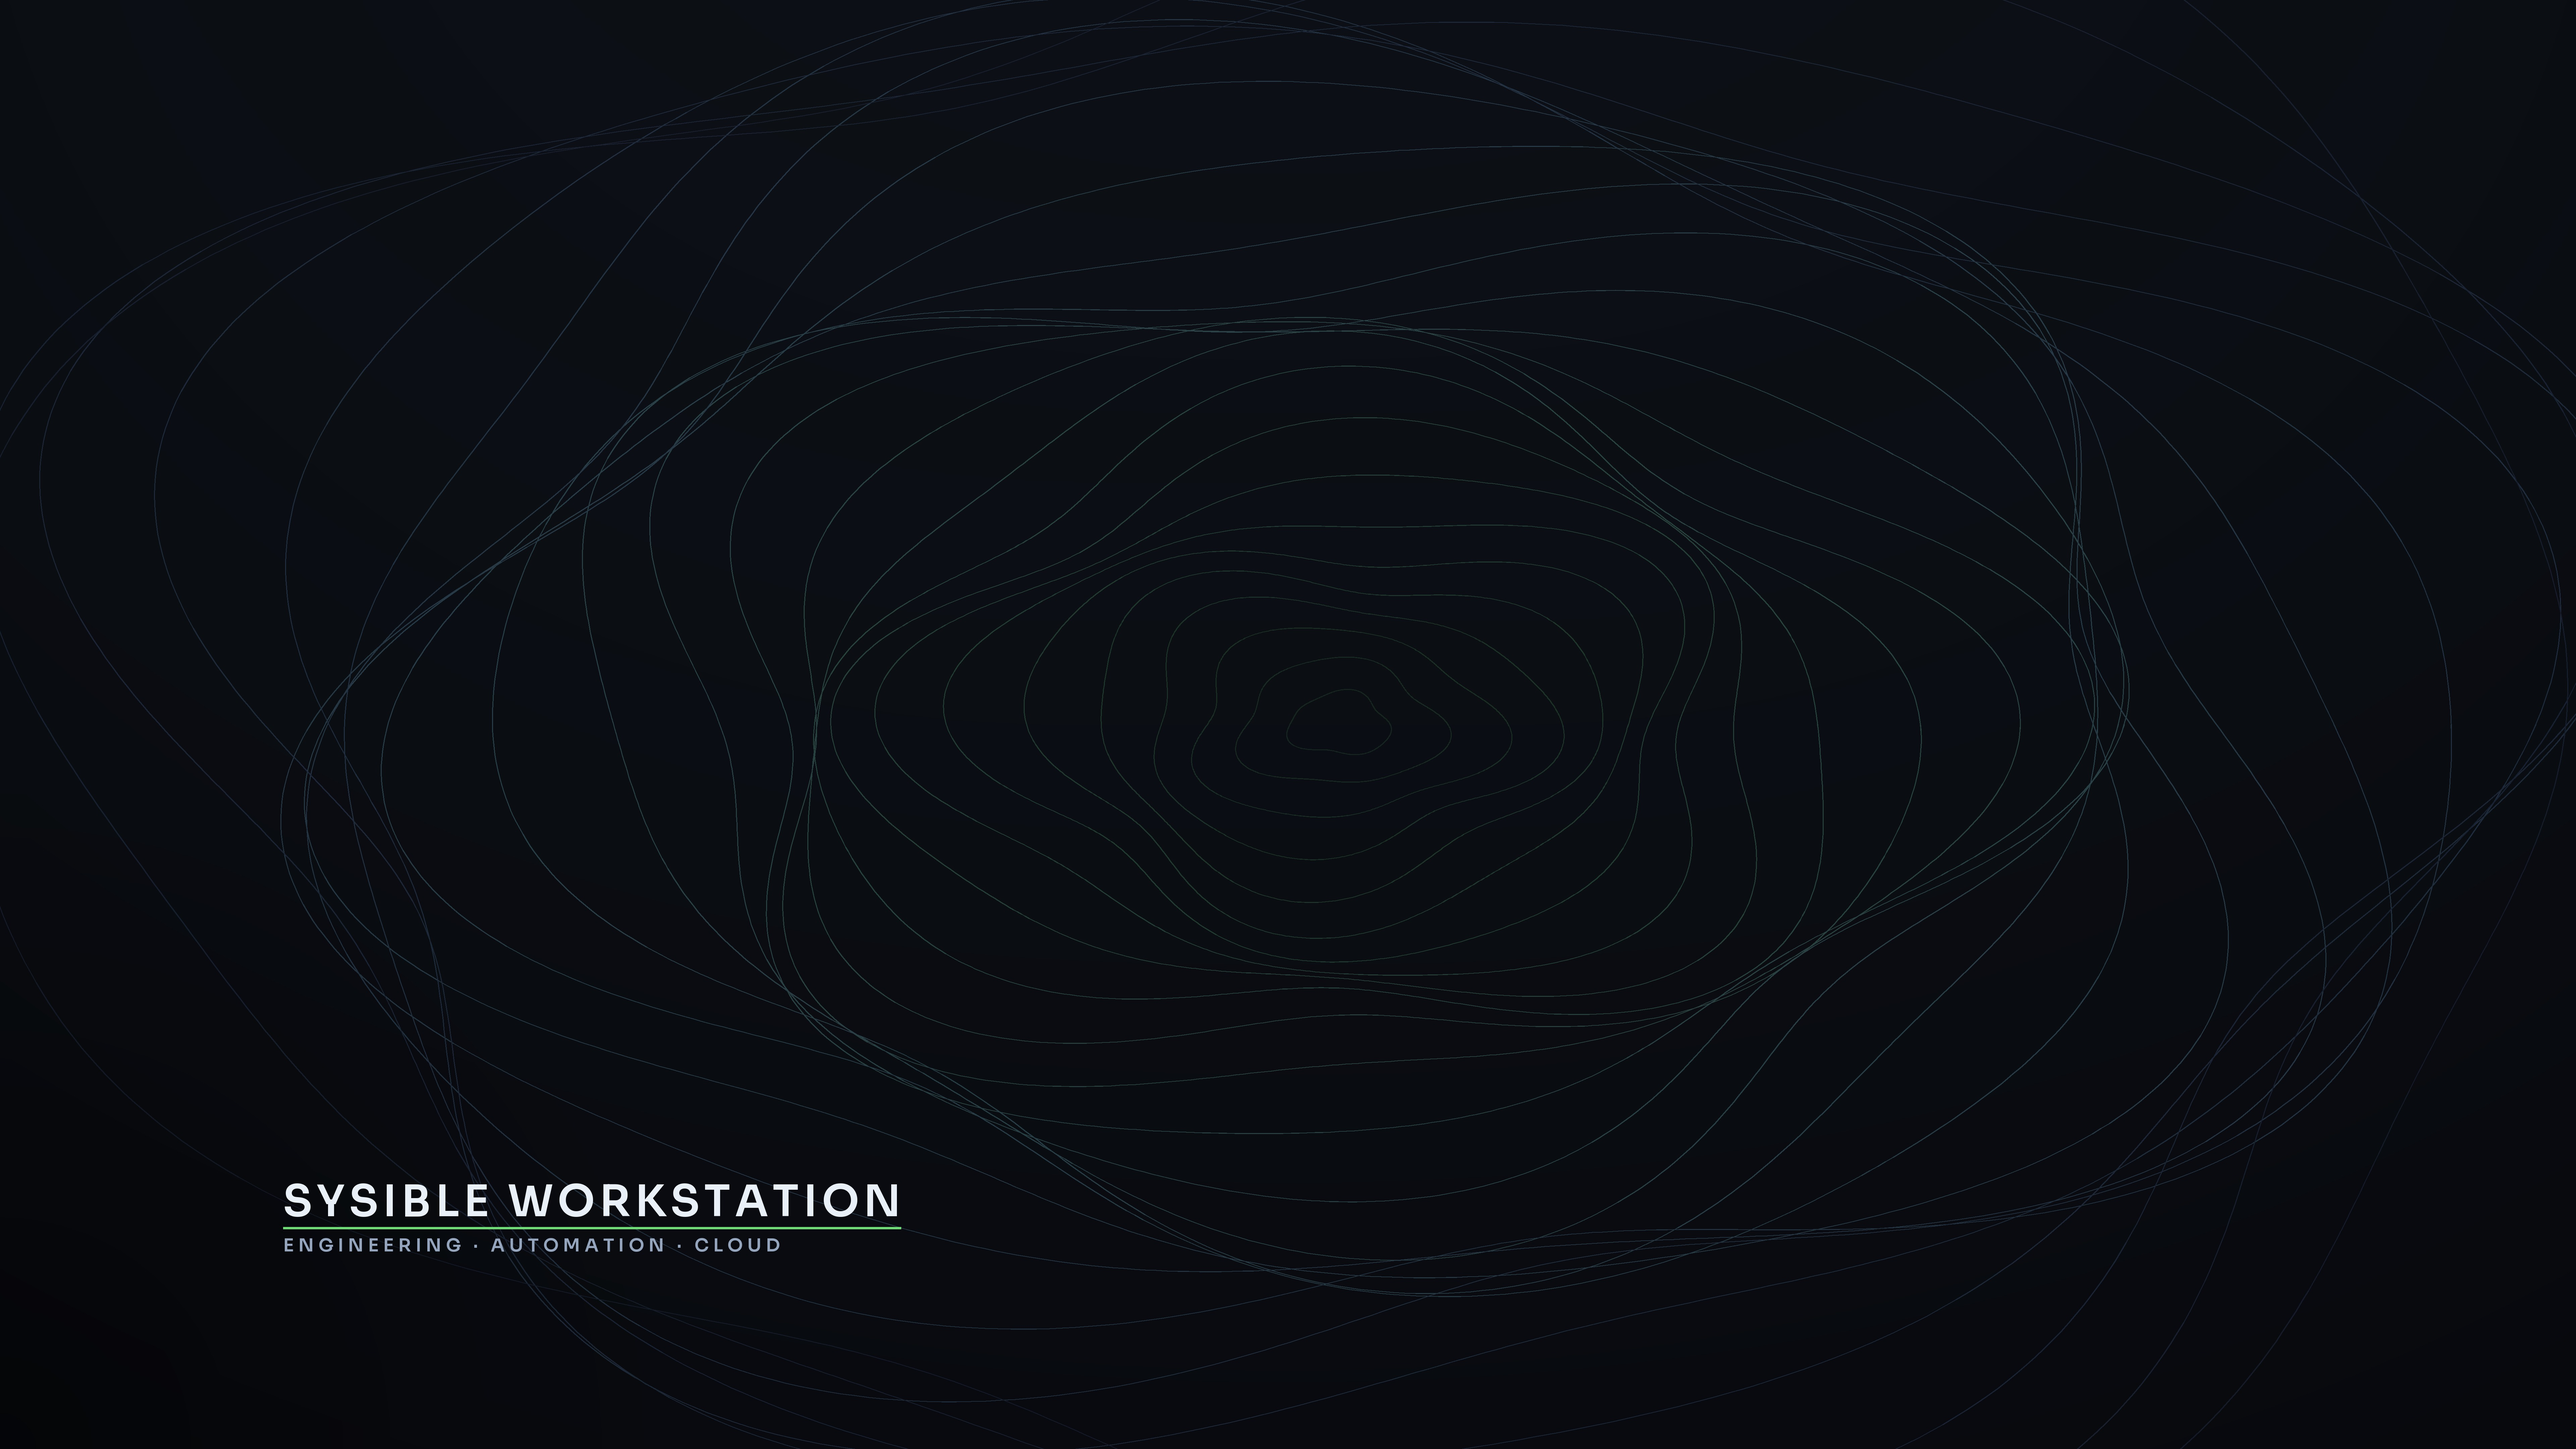
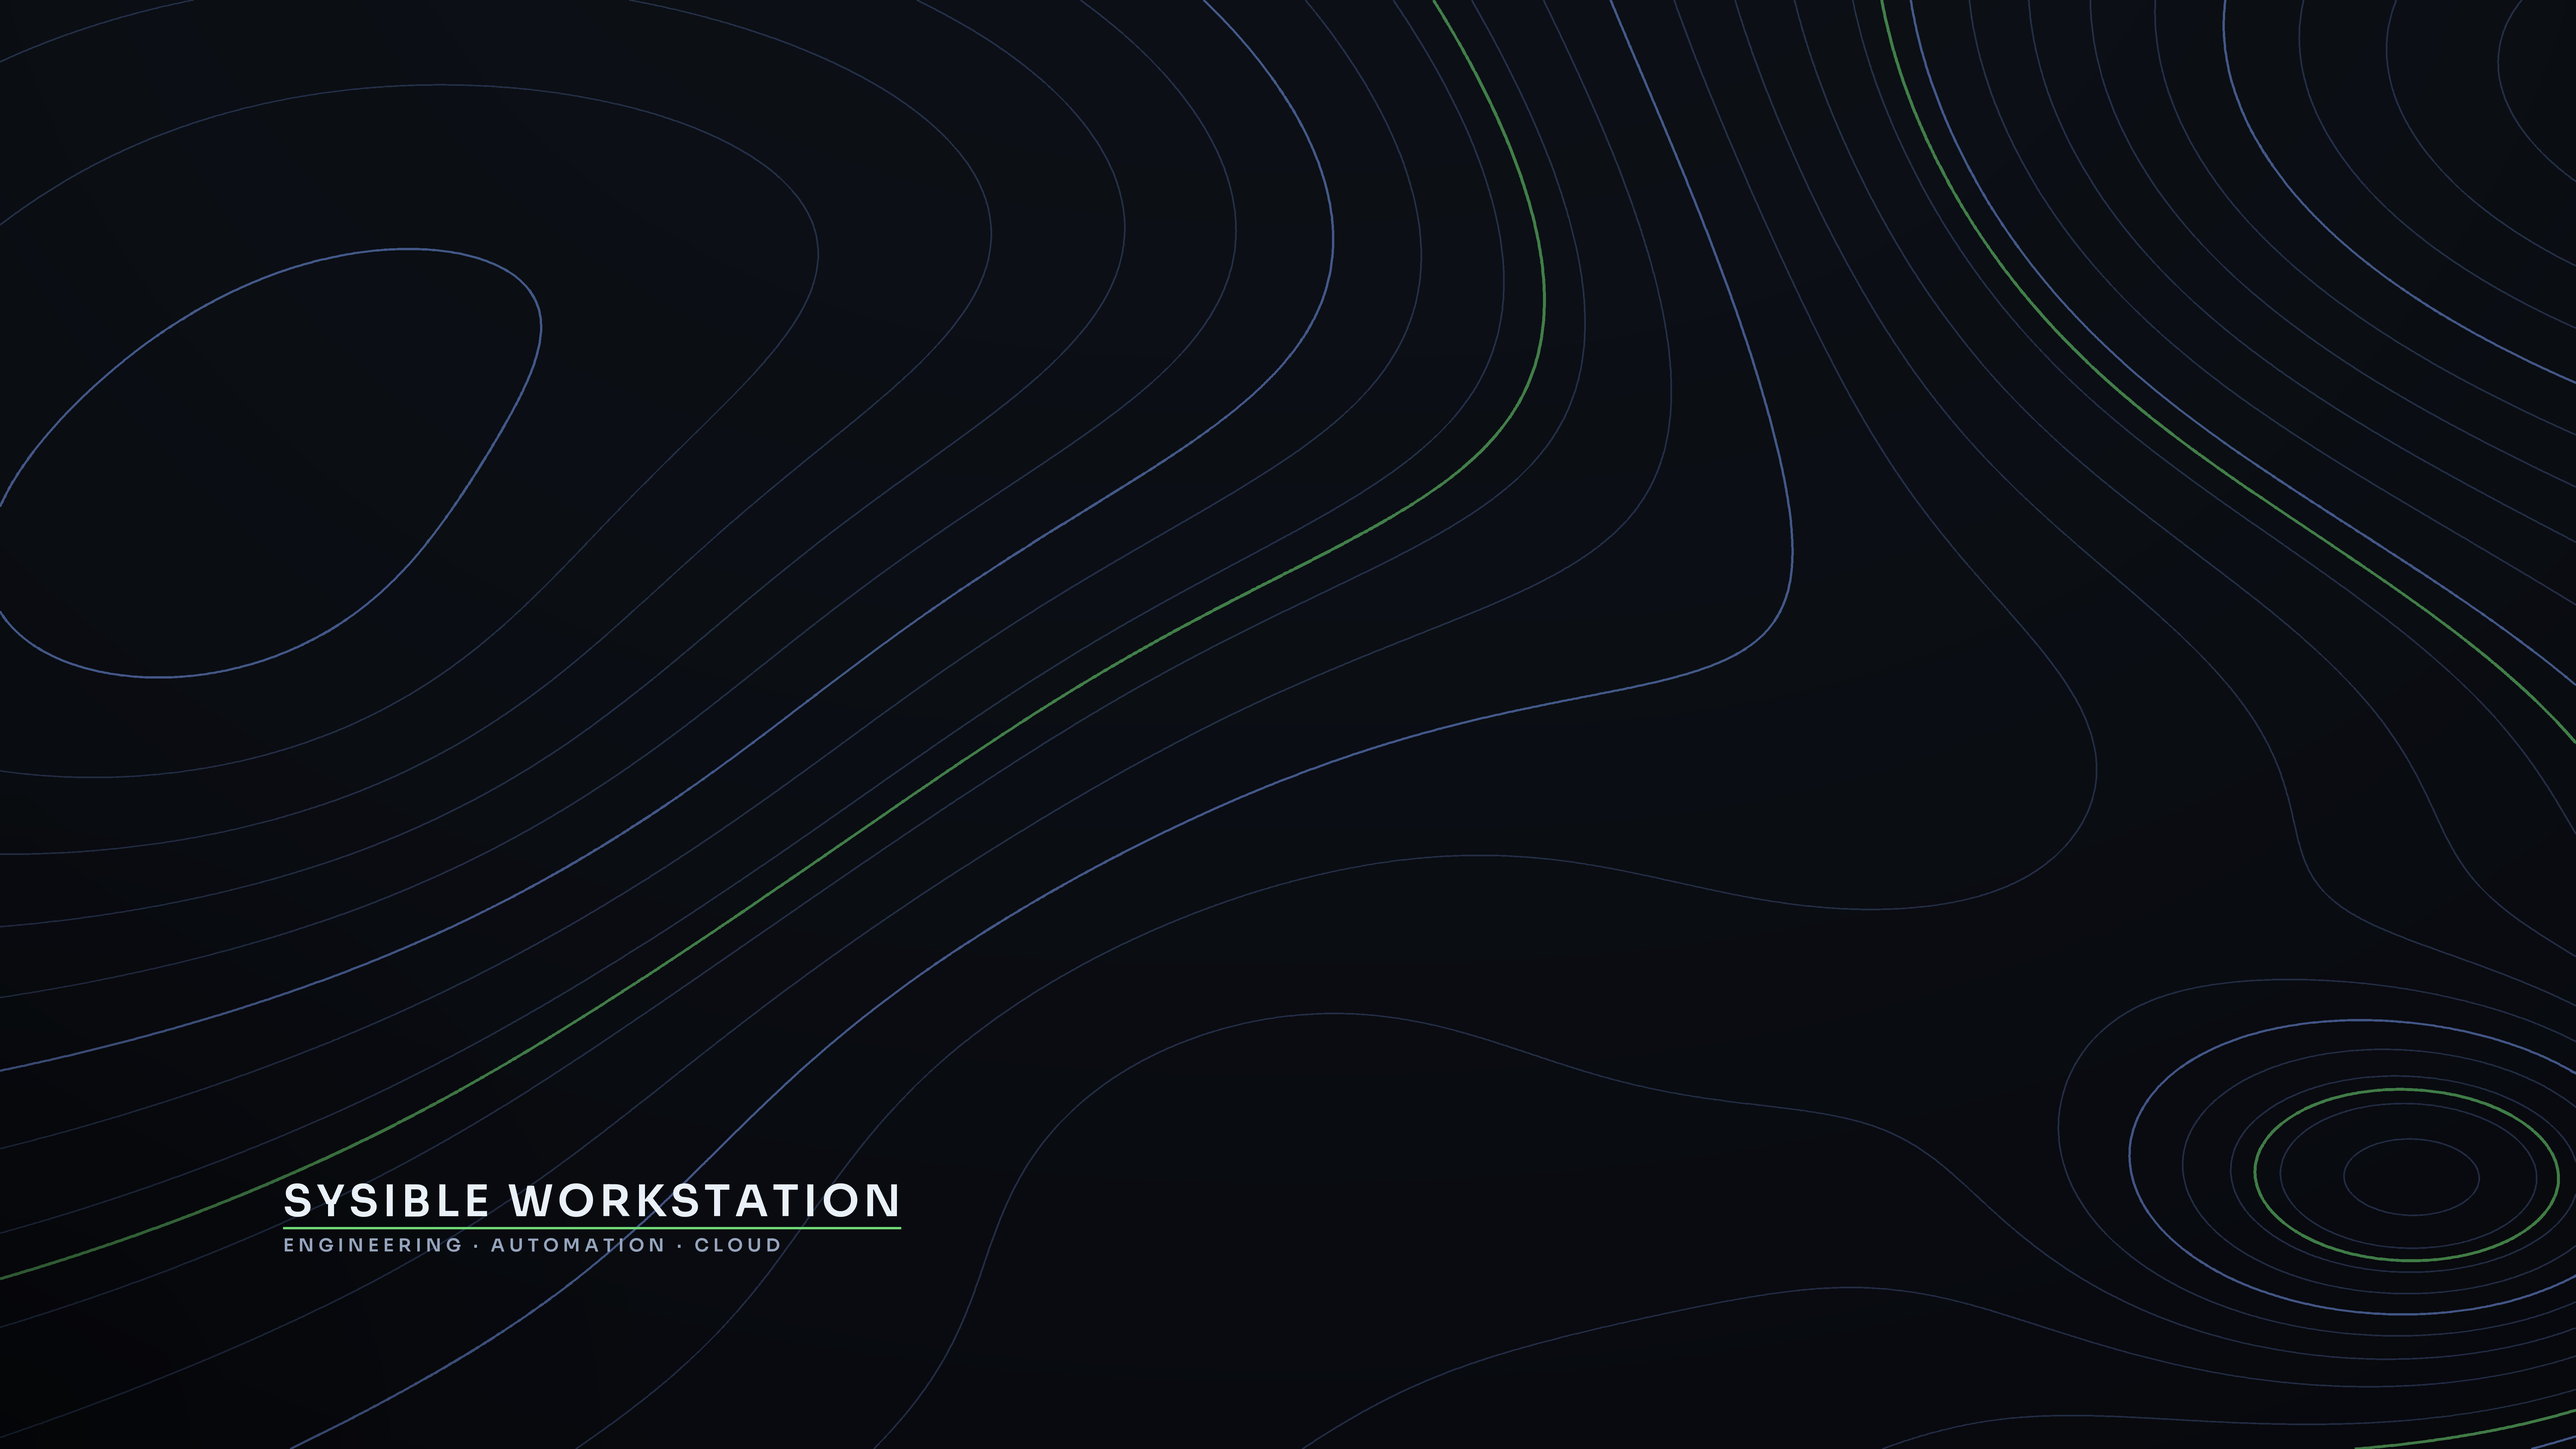
One installer, and the platform's contour background on the wallpapers
Installers: there were three launchers — Controller, SLEP, SLOP — for what is
really one script, so each could drift on its own, and one already had:
sysible-controller-install.desktop ran `install-sysible-controller`, a name that
resolves to a stale script describing a pre-container layout (/opt/sysible, a
systemd backend + web console) the Controller has not shipped in a long time.
Worse, verify check 14 fails the build for any launcher whose Exec is not on
PATH, so the three-launcher set was one hook away from breaking the ISO.

There is now a single "Install Sysible Software" launcher that opens the
install-sysible menu, from which controller, slep and connect can each be
installed on their own, or SLOP to put all three behind one sign-in. The two
older command names survive as thin aliases that exec install-sysible, so
muscle memory still lands on the right installer instead of the stale one.

New verify check 15 asserts exactly one installer launcher, that its Exec is
the bare menu with no product baked in, that the menu offers every product, and
that both legacy names are aliases rather than installers of their own.

Wallpapers: the topographic styles now carry the same contour field as the
website and the SLOP apps — same seed, same green index contours — so the
desktop and every app in the platform share one background instead of three
unrelated looks. Regenerated at full resolution.

Claude-Session: https://claude.ai/code/session_01Rykm1PRspyG3mLbsfLyocH

diff --git a/branding/wallpapers/render_wallpapers.py b/branding/wallpapers/render_wallpapers.py
@@ -28,7 +28,7 @@ from PIL import Image, ImageDraw, ImageFont, ImageFilter
 ROOT = os.path.dirname(os.path.dirname(os.path.dirname(os.path.abspath(__file__))))
 FONT = os.path.join(ROOT, "branding/fonts/Sora.ttf")
 OUT_DIR = os.path.join(ROOT, "packages/sysible-artwork/backgrounds")
-PREVIEW_DIR = "/tmp/claude-0/-home-user-Sysible-Controller/c65daca9-69d4-5d3e-9d67-370754a4a228/scratchpad/wp_preview"
+PREVIEW_DIR = os.getenv("SYSIBLE_WP_PREVIEW_DIR", "/tmp/sysible-wp-preview")
 
 FULL_W, FULL_H = 7680, 4320
 QUALITY = 92
@@ -202,54 +202,170 @@ def draw_banner(img_rgba, pal):
 # ============================================================================
 # STYLE RENDERERS  (each returns a final RGB PIL image, banner NOT yet applied)
 # ============================================================================
-def _topo_overlay(W, H, pal, rings, freq, jitter, seed, deform=0.11):
-    """Concentric deformed contour rings, green->blue by ring, sin fade for depth."""
-    overlay = Image.new("RGBA", (W, H), (0, 0, 0, 0))
-    d = ImageDraw.Draw(overlay, "RGBA")
-    r = rng(seed)
-    cx, cy = W * 0.52, H * 0.5
-    base = min(W, H) * (0.9 / rings)
-    lw = max(2, int(W / 2400))
-    ga = pal["art_green"]
-    ba = pal["art_blue"]
-    a_lo, a_hi = (0.10, 0.34) if pal["light"] else (0.09, 0.30)
-    phase = r.random() * math.tau
-    for k in range(rings):
-        rr = base * (k + 1)
-        pts = []
-        a = 0.0
-        while a <= math.pi * 2 + 0.02:
-            pp = (rr
-                  + math.sin(a * 3 + k * 0.7 + phase) * rr * deform
-                  + math.cos(a * freq - k * 0.5) * rr * deform * 0.45
-                  + math.sin(a * (freq * 2 + 1) + k) * rr * jitter)
-            pts.append((cx + pp * math.cos(a), cy + pp * 0.62 * math.sin(a)))
-            a += 0.012
-        fade = math.sin(math.pi * (k + 1) / (rings + 1))
-        col = mix(ga, ba, k / max(1, rings - 1))
-        al = int((a_lo + (a_hi - a_lo) * fade) * 255)
-        d.line(pts, fill=col + (al,), width=lw, joint="curve")
-    return overlay
+# ---- website contour field --------------------------------------------------
+# The site's hero (index.html, drawTopo) draws REAL topographic contours: a
+# deterministic height field sampled by marching squares, most lines faint blue,
+# every fifth one an "index contour" drawn stronger, and two levels picked out in
+# green. That selective emphasis is what gives it the look — the earlier
+# concentric-ring overlay tinted every ring the same way, so nothing stood out.
+#
+# The field is reproduced EXACTLY (same LCG seed, same 14 gaussian bumps, same
+# regional slope), so the wallpaper and the website are the same terrain. It is
+# analytic, so it can be sampled on a far finer grid here than the browser uses —
+# the site's 132-wide grid would show visible faceting at 8K.
+_WEB_SEED = 7
+_WEB_BUMPS = 14
+_WEB_LEVELS = 24
+
+
+def _web_bumps():
+    """The site's bumps, from its own linear congruential generator."""
+    rs = _WEB_SEED
+    def rnd():
+        nonlocal rs
+        rs = (1103515245 * rs + 12345) & 0x7FFFFFFF
+        return rs / 0x7FFFFFFF
+    return [(rnd() * 1.1 - 0.05, rnd() * 1.1 - 0.05, rnd() * 2 - 1, 0.08 + rnd() * 0.22)
+            for _ in range(_WEB_BUMPS)]
+
+
+def _web_field(gw, gh):
+    """The height field on a (gh, gw) grid: a gentle regional slope plus the bumps."""
+    gx = np.linspace(0.0, 1.0, gw, dtype=np.float32)[None, :]
+    gy = np.linspace(0.0, 1.0, gh, dtype=np.float32)[:, None]
+    f = gx * 0.6 + gy * 0.3
+    for bx, by, amp, sig in _web_bumps():
+        d2 = ((gx - bx) ** 2 + (gy - by) ** 2) / (2.0 * sig * sig)
+        f = f + amp * np.exp(-d2)
+    return f.astype(np.float32)
+
+
+def _iso_segments(F, lvl, sx, sy):
+    """Marching-squares segments for one contour level, vectorized.
+
+    Returns an (N, 4) array of x0,y0,x1,y1. Same edge order as the site (top,
+    right, bottom, left) so the same cells connect the same way; a cell with four
+    crossings emits two segments, exactly as the canvas version does."""
+    tl, tr = F[:-1, :-1], F[:-1, 1:]
+    bl, br = F[1:, :-1], F[1:, 1:]
+    gt, gr = tl > lvl, tr > lvl
+    gb, gl = br > lvl, bl > lvl
+    m = np.stack([gt != gr, gr != gb, gb != gl, gl != gt], axis=-1)   # (h,w,4)
+    n = m.sum(axis=-1)
+    if not n.any():
+        return np.empty((0, 4), dtype=np.float32)
+
+    j, i = np.meshgrid(np.arange(F.shape[0] - 1, dtype=np.float32),
+                       np.arange(F.shape[1] - 1, dtype=np.float32), indexing="ij")
+    with np.errstate(divide="ignore", invalid="ignore"):
+        px = np.stack([
+            (i + (lvl - tl) / (tr - tl)) * sx,          # top
+            (i + 1) * sx,                                # right
+            (i + 1 - (lvl - br) / (bl - br)) * sx,       # bottom
+            i * sx,                                      # left
+        ], axis=-1)
+        py = np.stack([
+            j * sy,
+            (j + (lvl - tr) / (br - tr)) * sy,
+            (j + 1) * sy,
+            (j + 1 - (lvl - bl) / (tl - bl)) * sy,
+        ], axis=-1)
+    px = np.nan_to_num(px, nan=0.0, posinf=0.0, neginf=0.0)
+    py = np.nan_to_num(py, nan=0.0, posinf=0.0, neginf=0.0)
+
+    # Stable argsort on ~mask puts the crossing edges first, IN EDGE ORDER, which
+    # is what makes this equivalent to the canvas version's push-in-order loop.
+    order = np.argsort(~m, axis=-1, kind="stable")
+    def pick(k):
+        idx = order[..., k]
+        return (np.take_along_axis(px, idx[..., None], axis=-1)[..., 0],
+                np.take_along_axis(py, idx[..., None], axis=-1)[..., 0])
+    x0, y0 = pick(0)
+    x1, y1 = pick(1)
+    x2, y2 = pick(2)
+    x3, y3 = pick(3)
+
+    two = n >= 2
+    segs = [np.stack([x0[two], y0[two], x1[two], y1[two]], axis=-1)]
+    four = n == 4
+    if four.any():
+        segs.append(np.stack([x2[four], y2[four], x3[four], y3[four]], axis=-1))
+    return np.concatenate(segs, axis=0).astype(np.float32)
+
+
+def _draw_iso(d, F, lvl, sx, sy, color, alpha, width):
+    segs = _iso_segments(F, lvl, sx, sy)
+    if not len(segs):
+        return
+    col = color + (int(max(0.0, min(1.0, alpha)) * 255),)
+    for x0, y0, x1, y1 in segs:
+        d.line((float(x0), float(y0), float(x1), float(y1)), fill=col, width=width)
+
+
+def _web_contour_overlay(W, H, pal, levels=_WEB_LEVELS, accents=(8, 15)):
+    """The site's hero contours at wallpaper scale."""
+    # Grid fine enough that marching-squares faceting is invisible at output size,
+    # but still the same terrain: the field is analytic, so resolution is free to
+    # choose. ~8px per cell matches what the browser shows at hero width.
+    gw = max(132, int(W / 8))
+    gh = max(46, int(round(gw * H / max(W, 1))))
+    F = _web_field(gw, gh)
+    lo, hi = float(F.min()), float(F.max())
+    step = (hi - lo) / levels
+    sx, sy = W / (gw - 1.0), H / (gh - 1.0)
+
+    # SUPERSAMPLE. PIL's line rasterizer has no antialiasing, so a 1px contour
+    # comes out visibly stair-stepped. At 8K the lines are ~5px and it doesn't
+    # show, but at ordinary sizes it does — so draw at 2x and average down, which
+    # is the same trick glow_layer already uses. Skipped above 4K, where it would
+    # cost half a gigabyte of RGBA to fix something already invisible.
+    ss = 2 if W <= 4096 else 1
+    ow, oh = W * ss, H * ss
+    ov = Image.new("RGBA", (ow, oh), (0, 0, 0, 0))
+    d = ImageDraw.Draw(ov, "RGBA")
+    sx, sy = sx * ss, sy * ss
+    base = max(1, int(round(ow / 1600)))         # the site's 0.9px at hero width
+    idx_w = max(1, int(round(ow / 1030)))        # ...and its 1.4px index contour
+    acc_w = max(1, int(round(ow / 900)))         # ...and its 1.6px accent
+    blue, green = pal["art_blue"], pal["art_green"]
+    a_base, a_idx = (0.24, 0.52) if pal["light"] else (0.22, 0.50)
+
+    k = 0
+    lvl = lo + step * 0.5
+    while lvl < hi:
+        index_contour = (k % 5 == 0)
+        _draw_iso(d, F, lvl, sx, sy, blue,
+                  a_idx if index_contour else a_base,
+                  idx_w if index_contour else base)
+        lvl += step
+        k += 1
+
+    # The two picked-out green contours. Without these the field reads as a flat
+    # blue texture; they are what makes it look like the site.
+    for a in accents:
+        _draw_iso(d, F, lo + step * a, sx, sy, green, 0.60 if pal["light"] else 0.55, acc_w)
+    if ss != 1:
+        ov = ov.resize((W, H), Image.LANCZOS)
+    return ov
 
 
 def render_topographic(W, H, pal):
+    """The site's hero terrain: faint blue contours, every fifth stronger, two in green."""
     arr = base_gradient(W, H, pal)
     arr = apply_vignette(arr, pal)
     img = to_rgba(arr)
-    ov = _topo_overlay(W, H, pal, rings=26, freq=5, jitter=0.0, seed=101, deform=0.11)
-    img = Image.alpha_composite(img, ov)
+    img = Image.alpha_composite(img, _web_contour_overlay(W, H, pal))
     return img.convert("RGB")
 
 
 def render_topographic_ridge(W, H, pal):
+    """The same terrain read finer — twice the contour interval, so the slopes
+    crowd into ridges. More texture for anyone who wants a busier desktop."""
     arr = base_gradient(W, H, pal)
     arr = apply_vignette(arr, pal)
     img = to_rgba(arr)
-    # denser + ridged: two interleaved contour families with higher frequency
-    ov = _topo_overlay(W, H, pal, rings=54, freq=9, jitter=0.05, seed=202, deform=0.14)
-    img = Image.alpha_composite(img, ov)
-    ov2 = _topo_overlay(W, H, pal, rings=54, freq=13, jitter=0.06, seed=707, deform=0.09)
-    img = Image.alpha_composite(img, ov2)
+    img = Image.alpha_composite(
+        img, _web_contour_overlay(W, H, pal, levels=52, accents=(17, 32)))
     return img.convert("RGB")
 
 
